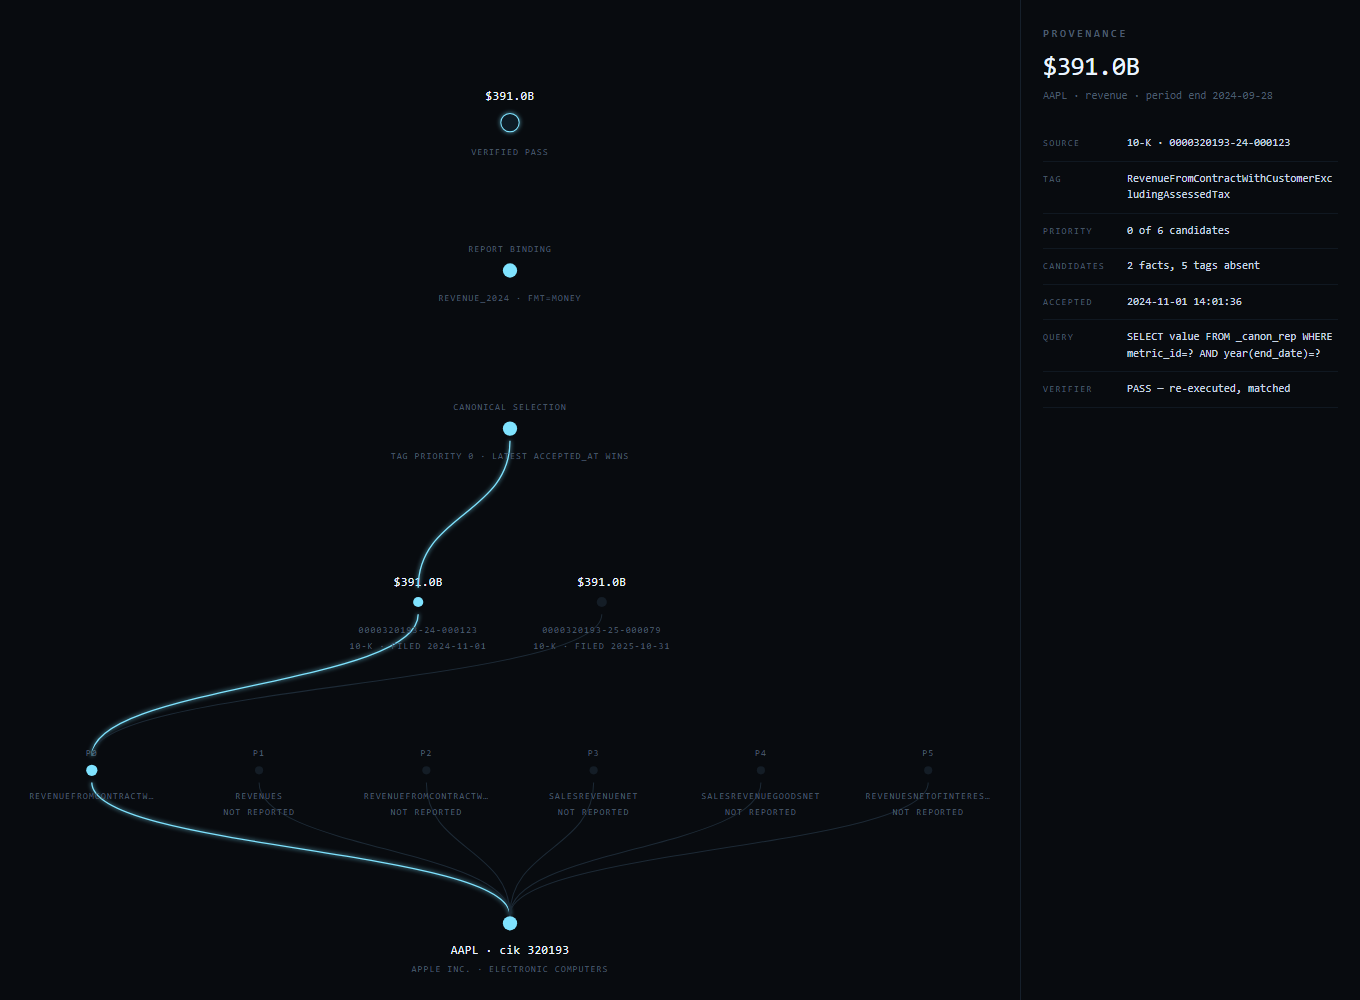
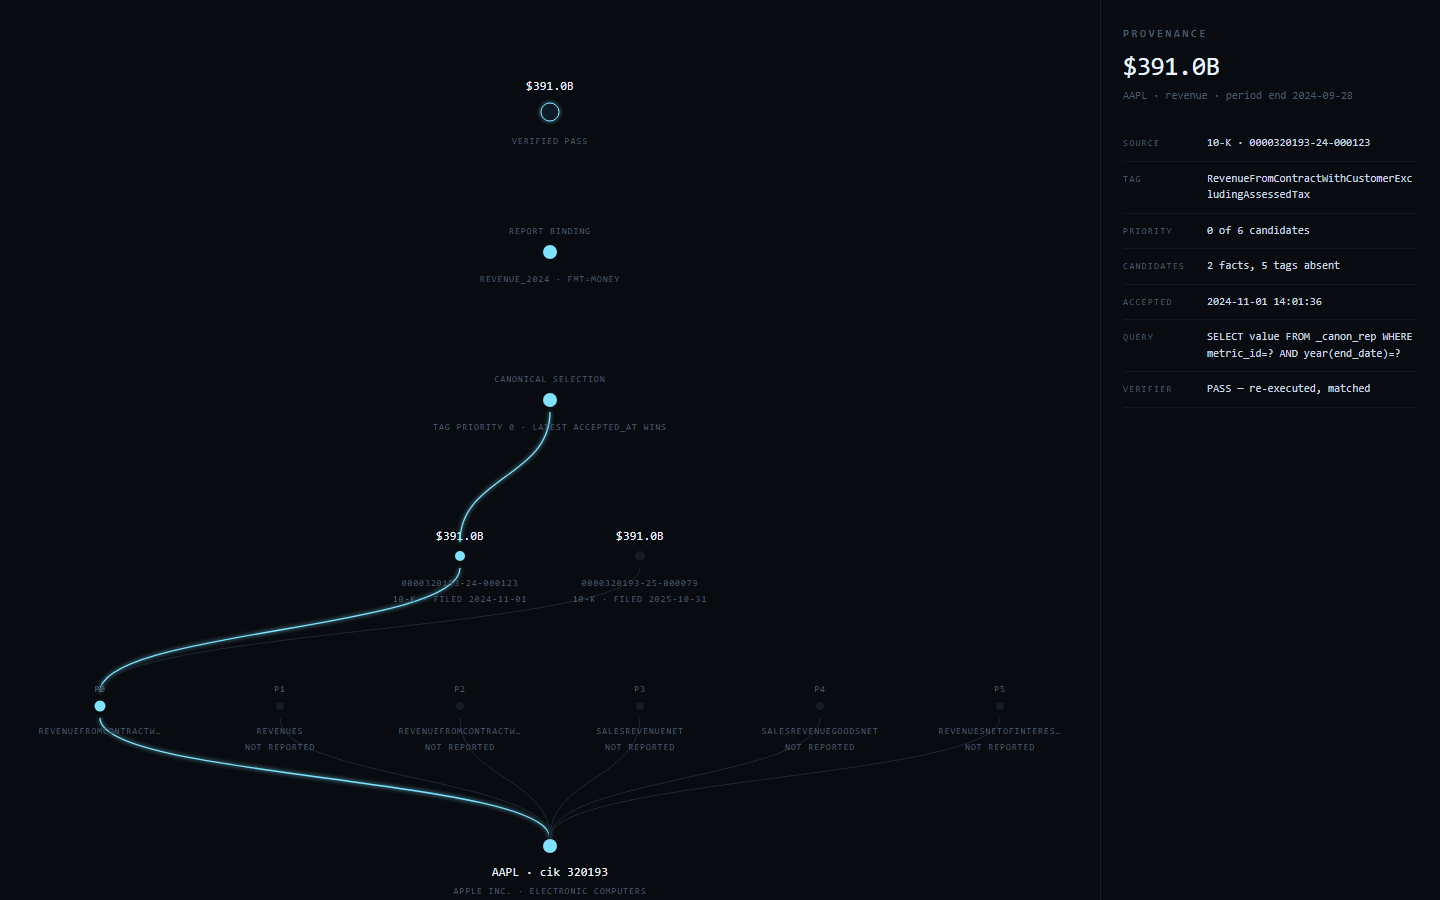
fix(viz): fit the provenance tree to the viewport
The root node fell below the fold at 1440x900 because the viewBox was taller than the
container. Geometry now fits at 1080x900 and the tag fan is wider.

diff --git a/viz/provenance.html b/viz/provenance.html
@@ -108,11 +108,11 @@ const D = {
   }
  }
 };
-const W = 1000, H = 980;
+const W = 1080, H = 900;
 const NS = 'http://www.w3.org/2000/svg';
 const svg = document.createElementNS(NS,'svg');
 svg.setAttribute('viewBox','0 0 '+W+' '+H);
-svg.setAttribute('preserveAspectRatio','xMidYMid meet');
+svg.setAttribute('preserveAspectRatio','xMidYMid meet'); document.getElementById('scene').style.overflow='hidden';
 
 const defs = document.createElementNS(NS,'defs');
 defs.innerHTML = '<filter id="g" x="-60%" y="-60%" width="220%" height="220%">' +
@@ -135,7 +135,7 @@ function label(x,y,t,cls,anchor) {
 }
 
 // stage y positions (bottom to top)
-const Y = { company:905, tags:755, facts:590, canonical:420, binding:265, verify:120 };
+const Y = { company:846, tags:706, facts:556, canonical:400, binding:252, verify:112 };
 const CX = W/2;
 
 // ---- root: company
@@ -145,7 +145,7 @@ label(CX,Y.company+48,D.company.name+'  ·  '+D.company.sic,'micro');
 
 // ---- stage: tag chain (six candidates)
 const n = D.chain.length;
-const spread = 820, left = CX - spread/2;
+const spread = 900, left = CX - spread/2;
 D.chain.forEach((c,i) => {
   const x = n===1 ? CX : left + i*(spread/(n-1));
   const live = i === 0;
